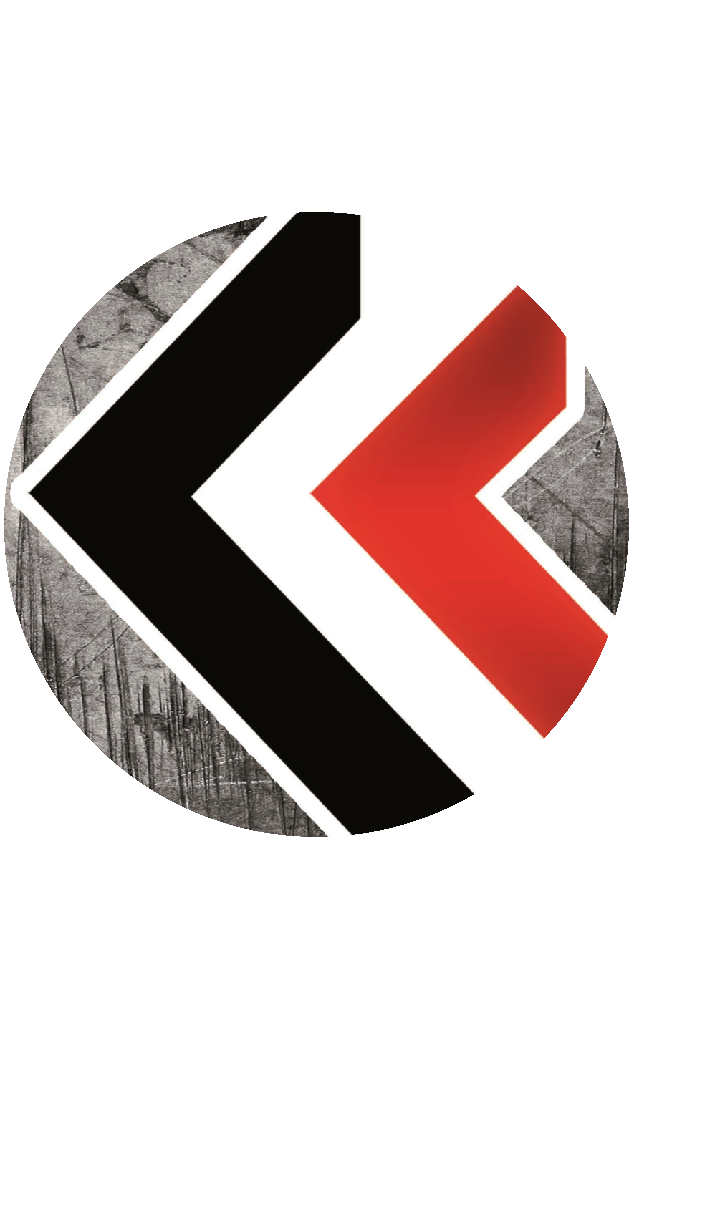
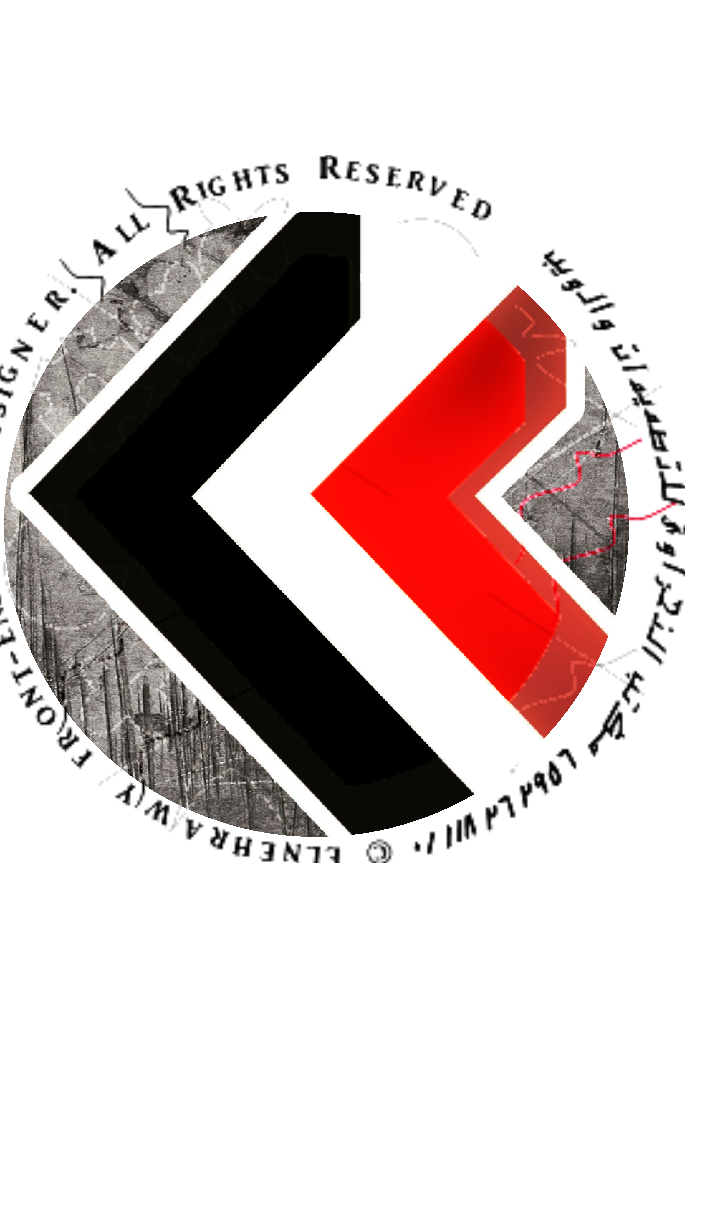
add face page and new logoface

diff --git a/index.html b/index.html
@@ -11,7 +11,7 @@
         <img id="background" style="max-width: 100%" height="auto" src= "photo/spirit_by_skymonk-d4e4rrh.gif" alt="background photo"> 
         <div>
             <a href="https://twitter.com/login?lang=ar" target="_blank"><img src="photo/twitter-logo-final.png" alt="twitter logo" width="50px" height="50px"></a>
-            <a href="https://ar-ar.facebook.com/login/" target="_blank"><img src="photo/logo-facebook.png" alt="facebook logo" width="50px" height="50px"></a>
+            <a href="https://www.facebook.com/elnehrawy.adv" target="_blank"><img src="photo/logo-facebook.png" alt="facebook logo" width="50px" height="50px"></a>
             <a href="https://web.whatsapp.com/" target="_blank"><img src="photo/unnamed.png" alt="whatsapp logo" width="50px" height="50px"></a>
             <a id="elnehrawy" href="http://el-nehrawy.wixsite.com/el-nehrawy" target="_blank"><img id="elnehrawylogo" src="photo/1534353890076_trimmed.png" alt="elnehrawy logo" width="25px" height="50px"></a>
             
